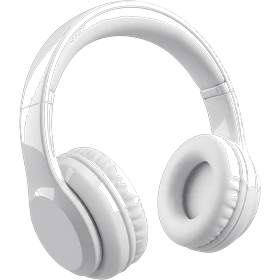
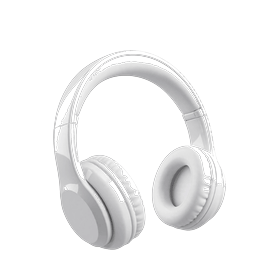
Normalise all category artwork to a single height and shared baseline in the files themselves, so every object reads at the same visual weight and sits on the same line. Per-category scale, shift and rotation tables in the code are no longer needed and are now empty — position is a property of the a

diff --git a/frontend/src/pages/Home.jsx b/frontend/src/pages/Home.jsx
@@ -20,36 +20,18 @@ const PROMO_SLIDES = [
 // Иллюстрации слайдов. Пока картинка не готова — показываем запасную SVG-иконку.
 // На картинках с несколькими предметами каждый выходит мельче, поэтому
 // показываем их крупнее — чтобы визуальный вес всех плиток был одинаковым.
-const PHOTO_SCALE = {
-  // выравниваем визуальный вес: чем реже предмет заполняет кадр, тем крупнее показываем
-  services: 1.3,
-  beauty: 1.22,
-  electronics: 1.18,
-  auto: 1.16,
-  business: 1.15,
-  kids: 1.08,
-  'home-garden': 1.06,
-  fashion: 1.05,
-}
+// Все картинки приведены к единой высоте и общей базовой линии прямо в файлах,
+// поэтому индивидуальная подгонка масштаба больше не нужна.
+const PHOTO_SCALE = {}
 
 // Точная подгонка положения: [вправо, вниз] в пикселях.
 // Бизнес и хобби сидят ровно — их не двигаем.
 // Поворот в градусах: плюс — по часовой стрелке.
-const PHOTO_ROTATE = {
-  services: 26,
-}
+// Поворот применён прямо в файлах при выравнивании.
+const PHOTO_ROTATE = {}
 
 const PHOTO_SHIFT = {
   __all: [-2, 0],
-  // высокие предметы упирались в нижний край — приподнимаем
-  services: [-4, 9],
-  beauty: [0, -1],
-  business: [0, -4],
-  pets: [0, -3],
-  kids: [0, -2],
-  auto: [0, 9],
-  fashion: [-4, 0],
-  'home-garden': [0, 5],
 }
 
 const PROMO_IMAGES = {
